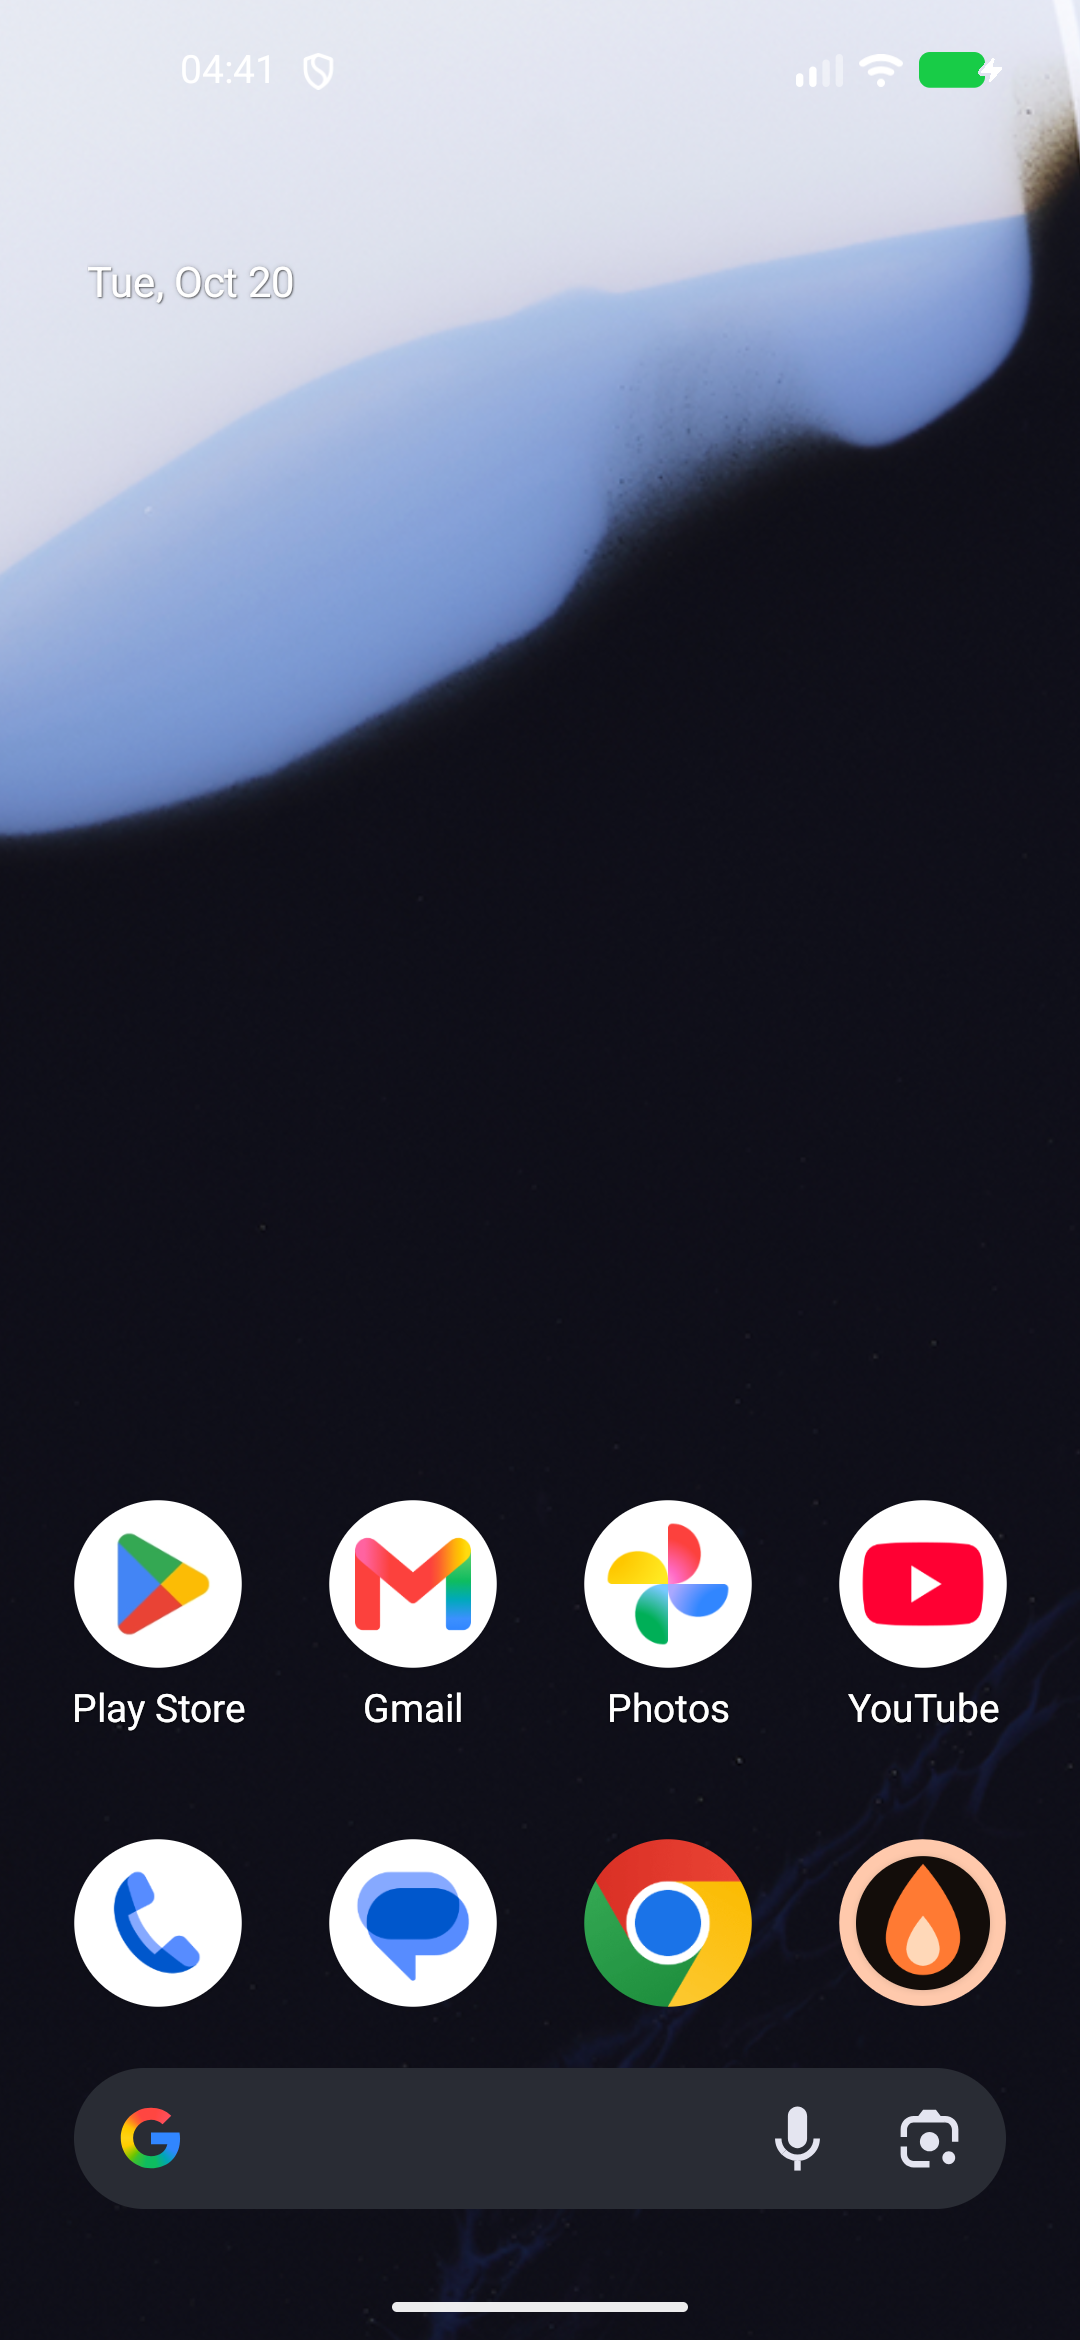
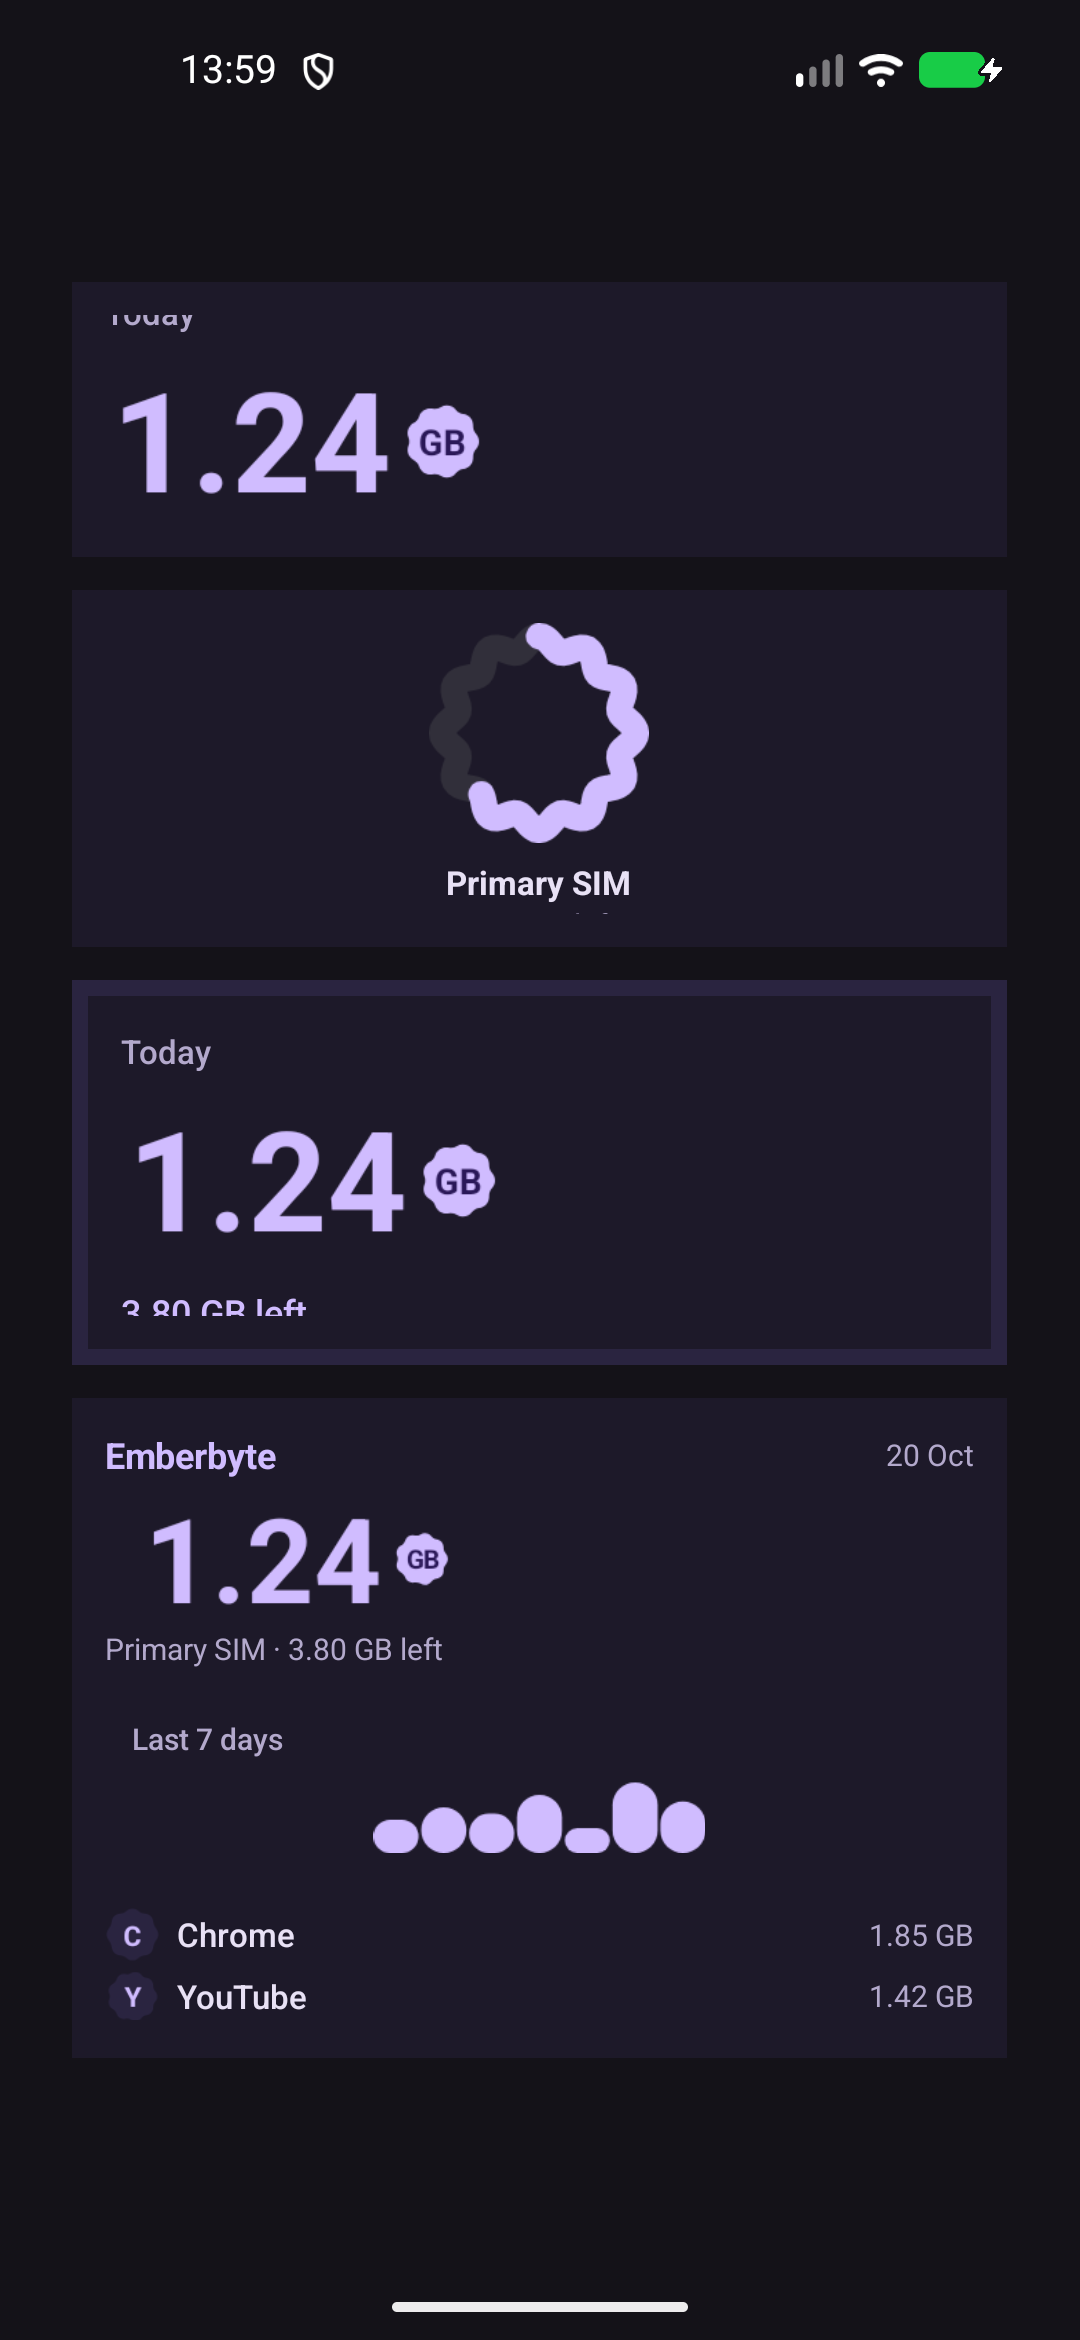
docs: repair widget proofs and store screenshots without systemui crash
Recapture all 29 E8 widget test screenshots on clean cold-booted emulator,
resolve empty widget launcher by supporting multi-widget previews in
WidgetPreviewActivity, and capture verified 07_widgets_preview store showcase.

diff --git a/app/src/debug/kotlin/io/github/khaledbahaaeldin/emberbyte/WidgetPreviewActivity.kt b/app/src/debug/kotlin/io/github/khaledbahaaeldin/emberbyte/WidgetPreviewActivity.kt
@@ -111,8 +111,14 @@ class WidgetPreviewActivity : ComponentActivity() {
 
         val bgHex = if (dark && amoled) 0xFF000000.toInt() else if (dark) 0xFF141218.toInt() else 0xFFF5F5F7.toInt()
         rootContainer.setBackgroundColor(bgHex)
-        infoText.setTextColor(if (dark) AndroidColor.WHITE else AndroidColor.DKGRAY)
-        infoText.text = "Widget: $widgetName | Theme: ${preset.name} (${if (dark) "Dark" else "Light"}${if (amoled) " AMOLED" else ""}) | ${widthDp}x${heightDp}dp"
+        val hideInfo = intent.getBooleanExtra("hideInfo", false) || widgetName.equals("showcase", ignoreCase = true)
+        if (hideInfo) {
+            infoText.visibility = android.view.View.GONE
+        } else {
+            infoText.visibility = android.view.View.VISIBLE
+            infoText.setTextColor(if (dark) AndroidColor.WHITE else AndroidColor.DKGRAY)
+            infoText.text = "Widget: $widgetName | Theme: ${preset.name} (${if (dark) "Dark" else "Light"}${if (amoled) " AMOLED" else ""}) | ${widthDp}x${heightDp}dp"
+        }
 
         val density = resources.displayMetrics.density
         val pixelWidth = (widthDp * density).toInt()
@@ -130,18 +136,124 @@ class WidgetPreviewActivity : ComponentActivity() {
             try {
                 val budget = ImageBudget()
                 val glanceRemoteViews = GlanceRemoteViews()
-                val rv = glanceRemoteViews.compose(this@WidgetPreviewActivity, size) {
-                    when (widgetName.lowercase()) {
-                        "plan" -> PlanWidget().PlanContent(data, palette, budget, size)
-                        "bento" -> BentoWidget().BentoContent(data, palette, budget, size)
-                        "dashboard" -> DashboardWidget().DashboardContent(data, palette, budget, size)
-                        "hero" -> HeroWidget().HeroContent(data, palette, budget, size)
-                        else -> TodayWidget().TodayContent(data, palette, budget, size)
+
+                when (widgetName.lowercase()) {
+                    "today_plan" -> {
+                        val col = android.widget.LinearLayout(this@WidgetPreviewActivity).apply {
+                            orientation = android.widget.LinearLayout.VERTICAL
+                            gravity = Gravity.CENTER_HORIZONTAL
+                        }
+                        val todaySize = DpSize(340.dp, 120.dp)
+                        val rvToday = glanceRemoteViews.compose(this@WidgetPreviewActivity, todaySize) {
+                            TodayWidget().TodayContent(data, palette, budget, todaySize)
+                        }
+                        val vToday = rvToday.remoteViews.apply(this@WidgetPreviewActivity, col)
+                        col.addView(vToday, android.widget.LinearLayout.LayoutParams((340 * density).toInt(), (120 * density).toInt()).apply {
+                            bottomMargin = (16 * density).toInt()
+                        })
+
+                        val planSize = DpSize(340.dp, 160.dp)
+                        val rvPlan = glanceRemoteViews.compose(this@WidgetPreviewActivity, planSize) {
+                            PlanWidget().PlanContent(data, palette, budget, planSize)
+                        }
+                        val vPlan = rvPlan.remoteViews.apply(this@WidgetPreviewActivity, col)
+                        col.addView(vPlan, android.widget.LinearLayout.LayoutParams((340 * density).toInt(), (160 * density).toInt()))
+
+                        widgetContainer.layoutParams = FrameLayout.LayoutParams(
+                            FrameLayout.LayoutParams.WRAP_CONTENT,
+                            FrameLayout.LayoutParams.WRAP_CONTENT,
+                            Gravity.CENTER
+                        )
+                        widgetContainer.removeAllViews()
+                        widgetContainer.addView(col)
+                    }
+                    "bento_dashboard" -> {
+                        val col = android.widget.LinearLayout(this@WidgetPreviewActivity).apply {
+                            orientation = android.widget.LinearLayout.VERTICAL
+                            gravity = Gravity.CENTER_HORIZONTAL
+                        }
+                        val bentoSize = DpSize(340.dp, 160.dp)
+                        val rvBento = glanceRemoteViews.compose(this@WidgetPreviewActivity, bentoSize) {
+                            BentoWidget().BentoContent(data, palette, budget, bentoSize)
+                        }
+                        val vBento = rvBento.remoteViews.apply(this@WidgetPreviewActivity, col)
+                        col.addView(vBento, android.widget.LinearLayout.LayoutParams((340 * density).toInt(), (160 * density).toInt()).apply {
+                            bottomMargin = (16 * density).toInt()
+                        })
+
+                        val dashSize = DpSize(340.dp, 300.dp)
+                        val rvDash = glanceRemoteViews.compose(this@WidgetPreviewActivity, dashSize) {
+                            DashboardWidget().DashboardContent(data, palette, budget, dashSize)
+                        }
+                        val vDash = rvDash.remoteViews.apply(this@WidgetPreviewActivity, col)
+                        col.addView(vDash, android.widget.LinearLayout.LayoutParams((340 * density).toInt(), (300 * density).toInt()))
+
+                        widgetContainer.layoutParams = FrameLayout.LayoutParams(
+                            FrameLayout.LayoutParams.WRAP_CONTENT,
+                            FrameLayout.LayoutParams.WRAP_CONTENT,
+                            Gravity.CENTER
+                        )
+                        widgetContainer.removeAllViews()
+                        widgetContainer.addView(col)
+                    }
+                    "showcase" -> {
+                        val col = android.widget.LinearLayout(this@WidgetPreviewActivity).apply {
+                            orientation = android.widget.LinearLayout.VERTICAL
+                            gravity = Gravity.CENTER_HORIZONTAL
+                        }
+                        val todaySize = DpSize(340.dp, 100.dp)
+                        val vToday = glanceRemoteViews.compose(this@WidgetPreviewActivity, todaySize) {
+                            TodayWidget().TodayContent(data, palette, budget, todaySize)
+                        }.remoteViews.apply(this@WidgetPreviewActivity, col)
+                        col.addView(vToday, android.widget.LinearLayout.LayoutParams((340 * density).toInt(), (100 * density).toInt()).apply {
+                            bottomMargin = (12 * density).toInt()
+                        })
+
+                        val planSize = DpSize(340.dp, 130.dp)
+                        val vPlan = glanceRemoteViews.compose(this@WidgetPreviewActivity, planSize) {
+                            PlanWidget().PlanContent(data, palette, budget, planSize)
+                        }.remoteViews.apply(this@WidgetPreviewActivity, col)
+                        col.addView(vPlan, android.widget.LinearLayout.LayoutParams((340 * density).toInt(), (130 * density).toInt()).apply {
+                            bottomMargin = (12 * density).toInt()
+                        })
+
+                        val bentoSize = DpSize(340.dp, 140.dp)
+                        val vBento = glanceRemoteViews.compose(this@WidgetPreviewActivity, bentoSize) {
+                            BentoWidget().BentoContent(data, palette, budget, bentoSize)
+                        }.remoteViews.apply(this@WidgetPreviewActivity, col)
+                        col.addView(vBento, android.widget.LinearLayout.LayoutParams((340 * density).toInt(), (140 * density).toInt()).apply {
+                            bottomMargin = (12 * density).toInt()
+                        })
+
+                        val dashSize = DpSize(340.dp, 240.dp)
+                        val vDash = glanceRemoteViews.compose(this@WidgetPreviewActivity, dashSize) {
+                            DashboardWidget().DashboardContent(data, palette, budget, dashSize)
+                        }.remoteViews.apply(this@WidgetPreviewActivity, col)
+                        col.addView(vDash, android.widget.LinearLayout.LayoutParams((340 * density).toInt(), (240 * density).toInt()))
+
+                        widgetContainer.layoutParams = FrameLayout.LayoutParams(
+                            FrameLayout.LayoutParams.WRAP_CONTENT,
+                            FrameLayout.LayoutParams.WRAP_CONTENT,
+                            Gravity.CENTER
+                        )
+                        widgetContainer.removeAllViews()
+                        widgetContainer.addView(col)
+                    }
+                    else -> {
+                        val rv = glanceRemoteViews.compose(this@WidgetPreviewActivity, size) {
+                            when (widgetName.lowercase()) {
+                                "plan" -> PlanWidget().PlanContent(data, palette, budget, size)
+                                "bento" -> BentoWidget().BentoContent(data, palette, budget, size)
+                                "dashboard" -> DashboardWidget().DashboardContent(data, palette, budget, size)
+                                "hero" -> HeroWidget().HeroContent(data, palette, budget, size)
+                                else -> TodayWidget().TodayContent(data, palette, budget, size)
+                            }
+                        }
+                        val view = rv.remoteViews.apply(this@WidgetPreviewActivity, widgetContainer)
+                        widgetContainer.removeAllViews()
+                        widgetContainer.addView(view)
                     }
                 }
-                val view = rv.remoteViews.apply(this@WidgetPreviewActivity, widgetContainer)
-                widgetContainer.removeAllViews()
-                widgetContainer.addView(view)
             } catch (e: Exception) {
                 widgetContainer.removeAllViews()
                 val errorView = TextView(this@WidgetPreviewActivity).apply {

diff --git a/tools/device/run_z2_captures.py b/tools/device/run_z2_captures.py
@@ -258,8 +258,19 @@ def main():
 
     # --- Widgets Preview ---
     print("Capturing Widgets Preview...")
+    run_adb(["shell", "am", "start", "-W", "-n", f"{PKG}/.WidgetPreviewActivity",
+             "--es", "widget", "today_plan", "--es", "theme", "dusk", "--ez", "dark", "true"])
+    time.sleep(1.5)
     capture_png(os.path.join(PROOF_DIR, "30_widgets_today_plan.png"))
+
+    run_adb(["shell", "am", "start", "-W", "-n", f"{PKG}/.WidgetPreviewActivity",
+             "--es", "widget", "bento_dashboard", "--es", "theme", "dusk", "--ez", "dark", "true"])
+    time.sleep(1.5)
     capture_png(os.path.join(PROOF_DIR, "31_widgets_bento_dashboard.png"))
+
+    run_adb(["shell", "am", "start", "-W", "-n", f"{PKG}/.WidgetPreviewActivity",
+             "--es", "widget", "showcase", "--es", "theme", "dusk", "--ez", "dark", "true"])
+    time.sleep(1.5)
     capture_png(os.path.join(STORE_DIR, "07_widgets_preview.png"))
 
     reset_device()
